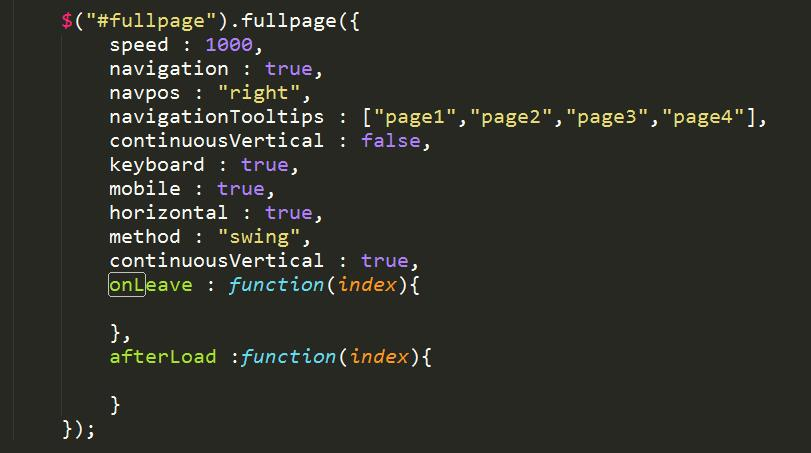
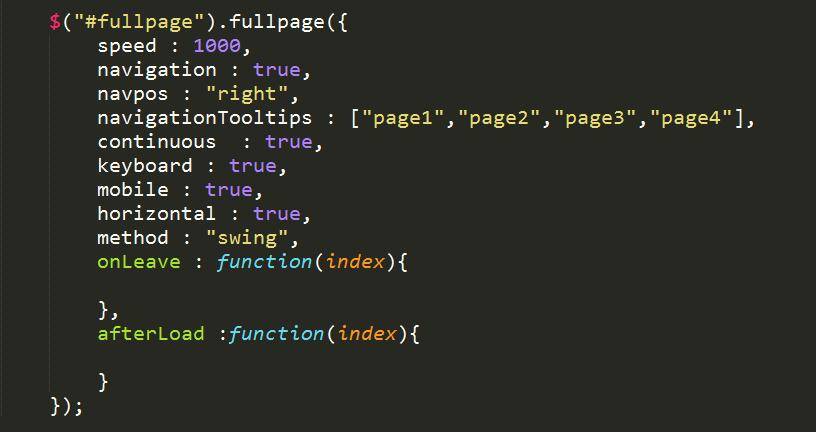
modify

diff --git a/myWork/org/myFullpage/myFullpage.js b/myWork/org/myFullpage/myFullpage.js
@@ -5,7 +5,7 @@
 			navigation:true,	  //是否有导航
 			navpos:"right",	//导航的位置
 		//	navigationTooltips:["section1"],//导航的内容
-			continuousVertical:false,		//是否在垂直方向上连续
+			continuous:false,		//是否在垂直方向上连续
 			keyboard : true,				//是否支持键盘上下键切换
 			mobile : true,					//是否支持移动端的touch事件 //如果设定为false，则在手机上无法正常使用
 			method : "swing",				//jQuery动画切换效果，然而默认的只有linear 和swing
@@ -115,7 +115,7 @@
 			//goto函数负责对要进行的页码进行预处理
 			var goto = function(num){
 				if(num<0){
-					if(opt.continuousVertical){
+					if(opt.continuous){
 						moveTo(size-1);
 					}
 					return;
@@ -125,7 +125,7 @@
 					return;
 				}
 				if(num==size){
-					if(opt.continuousVertical){
+					if(opt.continuous){
 						moveTo(0);
 					}
 				}					

diff --git a/myWork/org/myFullpage/myFullpage.html b/myWork/org/myFullpage/myFullpage.html
@@ -62,12 +62,11 @@
 					navigation : true,
 					navpos : "right",
 					navigationTooltips : ["page1","page2","page3","page4"],
-					continuousVertical : false,
+					continuous  : true,
 					keyboard : true,
 					mobile : true,
 					horizontal : true,
 					method : "swing",
-					continuousVertical : true,
 					onLeave : function(index){
 
 					},
